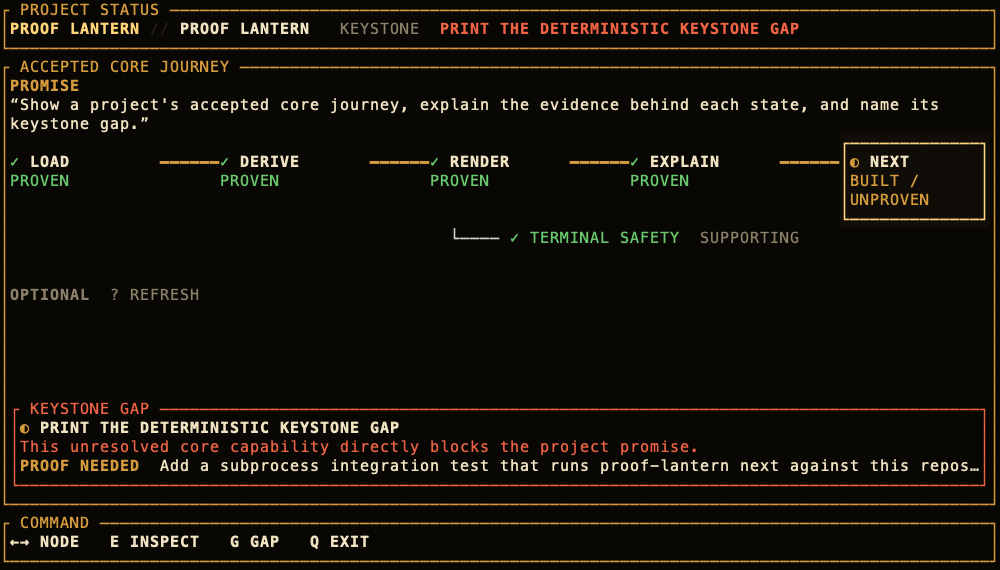
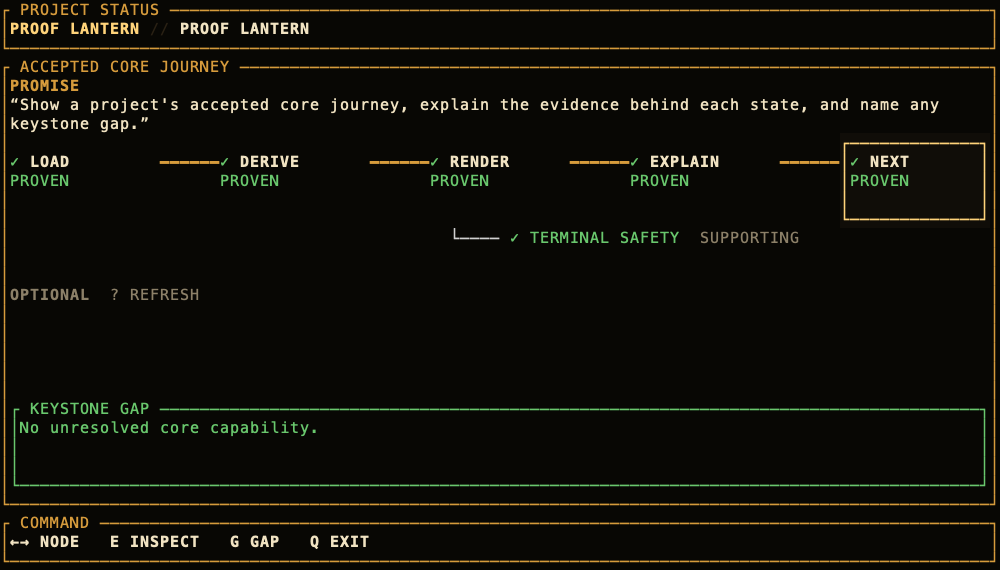
Prove next command subprocess contract

diff --git a/tests/render_smoke.rs b/tests/render_smoke.rs
@@ -109,18 +109,19 @@ fn undersized_terminal_gets_an_explicit_bail_screen() {
 }
 
 #[test]
-fn repository_self_map_renders_its_real_keystone() {
+fn repository_self_map_renders_a_complete_core_journey() {
     let root = PathBuf::from(env!("CARGO_MANIFEST_DIR"));
     let screen = render_app_screen(100, 30, false, "report-keystone", project_app(root));
     assert!(
         screen.contains("PROOF LANTERN // PROOF LANTERN"),
         "{screen}"
     );
-    assert!(screen.contains("◐ NEXT"), "{screen}");
-    assert!(screen.contains("BUILT /"), "{screen}");
-    assert!(screen.contains("UNPROVEN"), "{screen}");
-    assert!(screen.contains("KEYSTONE GAP"), "{screen}");
-    assert!(screen.contains("subprocess integration test"), "{screen}");
+    assert!(screen.contains("✓ NEXT"), "{screen}");
+    assert!(!screen.contains("BUILT / UNPROVEN"), "{screen}");
+    assert!(
+        screen.contains("No unresolved core capability."),
+        "{screen}"
+    );
 }
 
 fn render_screen(width: u16, height: u16, inspector: bool, selected: &str) -> String {

diff --git a/tests/next_command.rs b/tests/next_command.rs
@@ -1,0 +1,28 @@
+use std::{path::PathBuf, process::Command};
+
+#[test]
+fn next_command_reports_the_gap_impact_and_proof_needed() {
+    let project_root = PathBuf::from(env!("CARGO_MANIFEST_DIR")).join("fixtures/recipe_box");
+    let output = Command::new(env!("CARGO_BIN_EXE_proof-lantern"))
+        .arg("next")
+        .arg(project_root)
+        .output()
+        .expect("Proof Lantern should launch");
+
+    assert!(output.status.success(), "{:?}", output.status);
+    assert!(
+        output.stderr.is_empty(),
+        "unexpected stderr: {:?}",
+        output.stderr
+    );
+    let stdout = String::from_utf8(output.stdout).expect("next output should be UTF-8");
+    assert_eq!(
+        stdout,
+        concat!(
+            "KEYSTONE GAP\n",
+            "╳ Reopen saved recipes — MISSING\n",
+            "The core journey stops here. Downstream: Find a saved recipe.\n",
+            "Proof needed: Close app, reopen it, and confirm the saved recipe appears.\n",
+        )
+    );
+}

diff --git a/proof/README.md b/proof/README.md
@@ -7,7 +7,7 @@ These PNGs are visual-review artifacts generated from Ratatui's deterministic
 - `recipe-box-reopen-inspector-100x30.png`: compact evidence drawer;
 - `recipe-box-save-140x40.png`: wide journey and inspector with SAVE selected.
 - `proof-lantern-self-100x30.png`: Proof Lantern's real five-node self-map with
-  its current keystone selected.
+  its completed core journey and NEXT selected.
 
 The SVG sources are reproducible and ignored by Git. On macOS, convert a render
 without changing its geometry with:

diff --git a/README.md b/README.md
@@ -3,7 +3,8 @@
 Proof Lantern is a local-first terminal prototype that shows what a project's
 core user journey has accepted, built, proven, left missing, or not yet
 understood. It then names one deterministic keystone gap and explains the
-evidence behind that choice.
+evidence behind that choice whenever the accepted core journey remains
+unresolved.
 
 ![Proof Lantern mapping itself](proof/proof-lantern-self-100x30.png)
 
